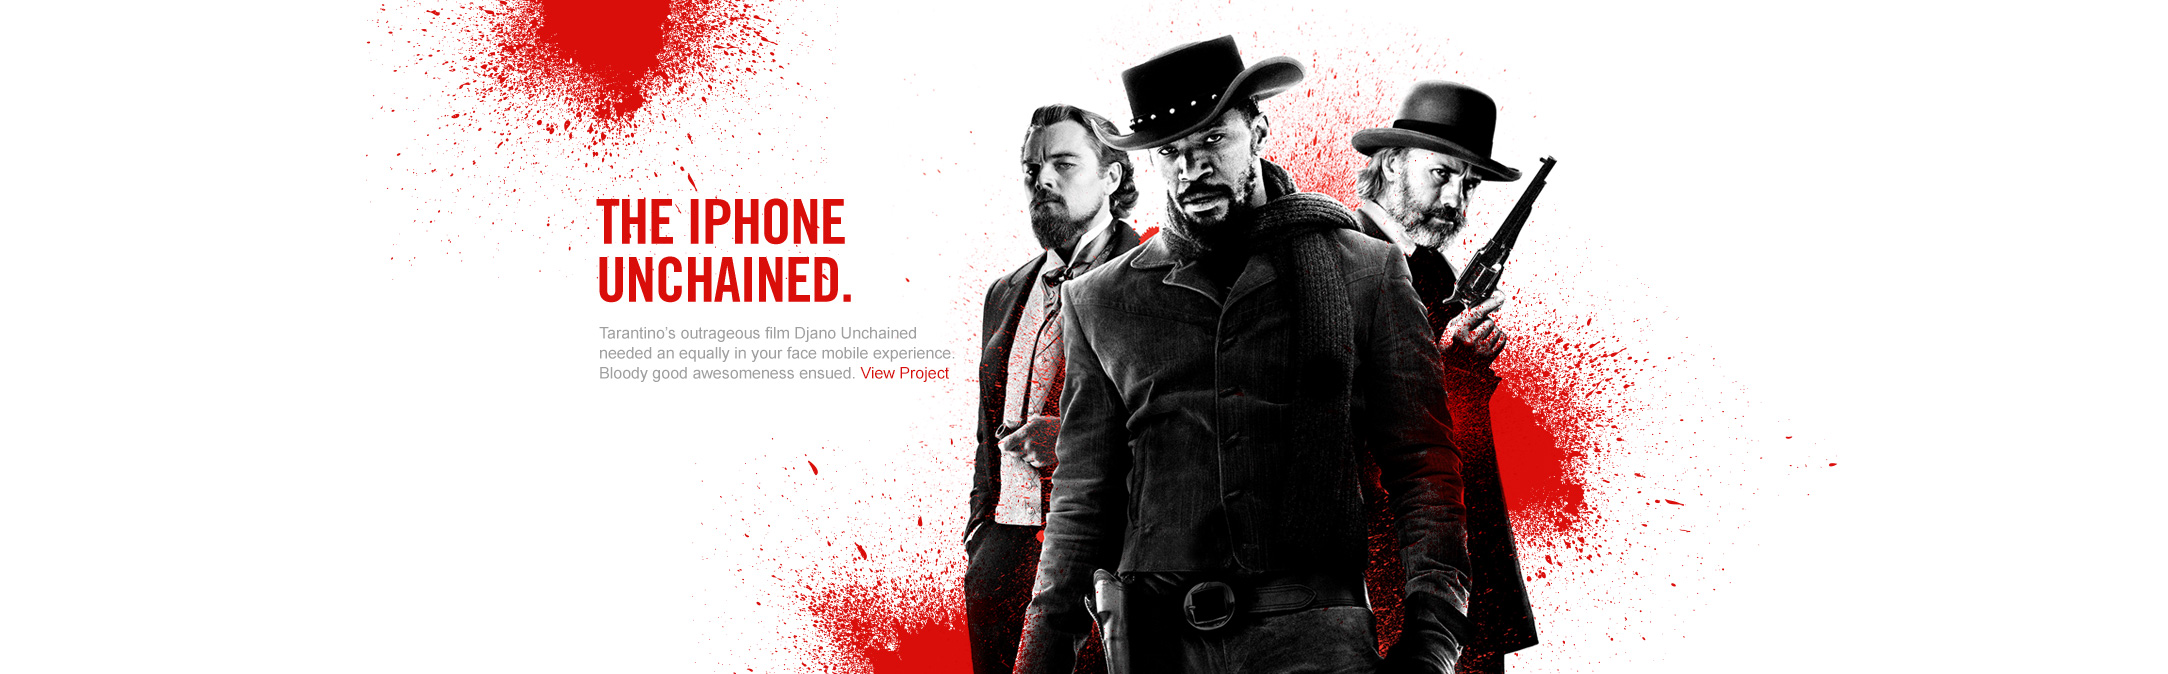
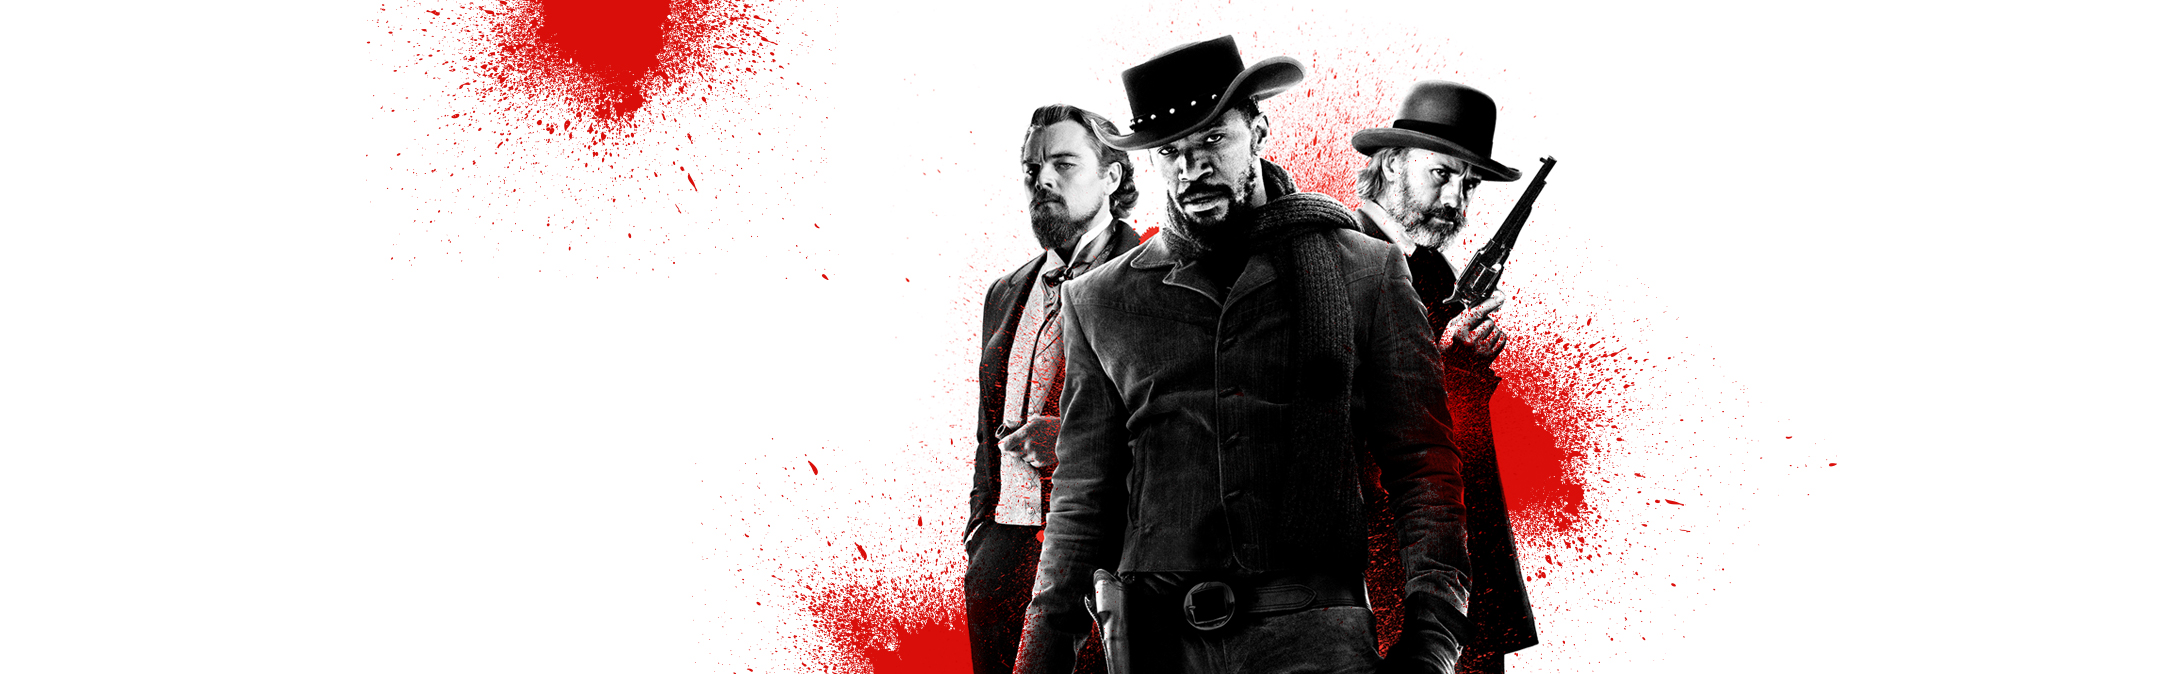
Styled nav options

Changed region(s): [[0.2781, 0.2804, 0.4327, 0.5608]]

diff --git a/index.html b/index.html
@@ -17,20 +17,92 @@
 </head>
 
 
-<body class="container">
+<body>
 
 
-    <header class="header">
+    <header class="header hero">
 
         <div class="container">
 
-            header
+            <nav class="nav">
+
+                <div class="logo">
+    
+                    <img src="images/logo.png" height="25" width="87" alt="envoy">
+                    
+                </div>
+
+                <ul class="links">
+
+                    <li>
+                        
+                        <a  class="work" href="#">
+                            
+                            Work
+                        
+                        </a>
+                    
+                    </li>
+
+                    <li>
+                        
+                        <a class="services" href="##">
+                            
+                            Services
+                        
+                        </a>
+                    
+                    </li>
+
+                    <li>
+                        
+                        <a class="ventures" href="###">
+                            
+                            Ventures
+                        
+                        </a>
+                    
+                    </li>
+
+                    <li>
+                        
+                        <a class="about" href="####">
+                            
+                            About
+                        
+                        </a>
+                    
+                    </li>
+
+                    <li>
+                        
+                        <a class="contact" href="#####">
+                            
+                            Contact
+                        
+                        </a>
+                    
+                    </li>
+
+                    <li>
+                        
+                        <a class="blog" href="######">
+                            
+                            Blog
+                        
+                        </a>
+                    
+                    </li>
+
+                </ul>
+
+            </nav>
 
         </div>
 
     </header>
 
-
+<!-- 
     <div class="hero">
 
         <div class="container">
@@ -39,7 +111,7 @@
 
         </div>
 
-    </div>
+    </div> -->
 
 
     <main class="middle">

diff --git a/css/style.css b/css/style.css
@@ -13,9 +13,21 @@ html {
 
 }
 
+body {
+
+    overflow: hidden;
+
+}
+
 a {
 
     text-decoration: none;
+
+}
+
+li {
+
+    list-style: none;
 
 }
 
@@ -29,6 +41,94 @@ a {
 
 /*Header
 ---------*/
+
+.nav {
+
+    background-color: #333333;
+
+    opacity: .9;
+
+    height: 60px;
+
+}
+
+.nav > .logo, .nav > .links {
+
+    position: relative;
+
+    display: flex;
+
+    flex-direction: row;
+
+}
+
+.logo {
+
+    left: 310px;
+    
+    top: 18.5px;
+
+}
+
+.links {
+
+    margin: 0 0 0 358px;
+
+    top: 9px;
+
+    font-family: Arial, Helvetica, sans-serif;
+
+    font-weight: 600;
+
+    font-size: 10px;
+
+}
+
+.links > li {
+
+    margin-left: 23px;
+
+}
+
+.links > li > a {
+
+    color: white;
+
+}
+
+.work:link,
+.services:link,
+.ventures:link,
+.about:link,
+.contact:link,
+.blog:link {
+
+    color: white;
+
+}
+
+.work:visited,
+.services:visited,
+.ventures:visited,
+.about:visited,
+.contact:visited,
+.blog:visited {
+
+    color: gray;
+
+}
+
+.work:hover,
+.services:hover,
+.ventures:hover,
+.about:hover,
+.contact:hover,
+.blog:hover {
+
+    color: orangered;
+
+}
+
 .header {
 
     background-color: black;
